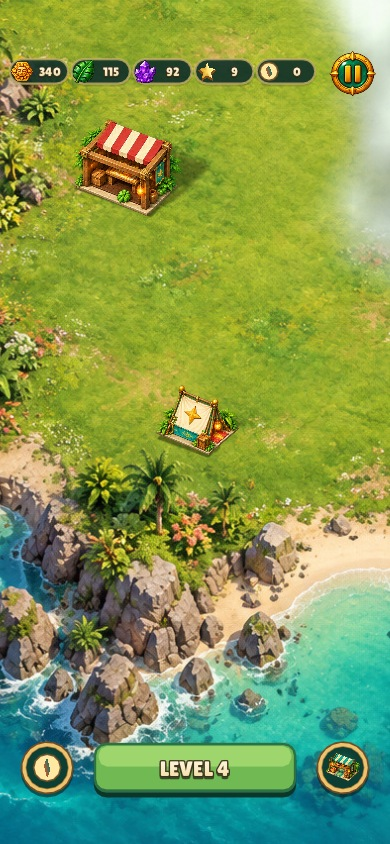
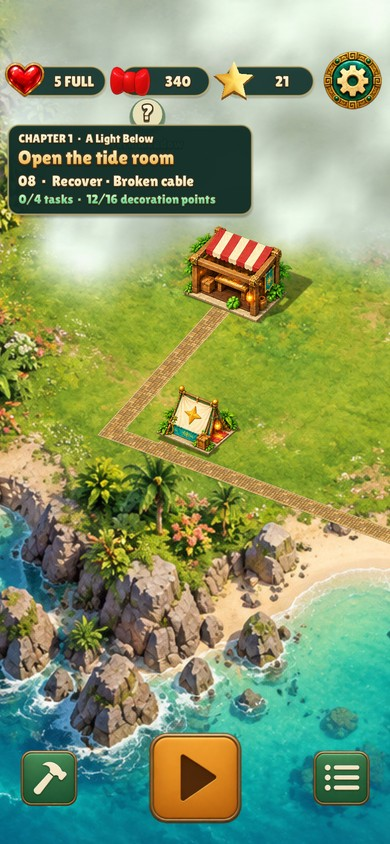
Pave streets in Relic Rush and Nile Archive
Both games load a road atlas rendered by tools/roads.py from their own
palette: warm sandstone setts for Relic Rush, pale limestone for Nile
Archive. The engine lays a flag tile at every building's front and joins
them, replacing the curved connectors both games had switched off.

diff --git a/tools/roads.py b/tools/roads.py
@@ -196,7 +196,7 @@ def main():
     for mask in range(1, 16):
         subprocess.run([str(scener), '--render', str(work / 'roads.blks'), '--camera', f'road{mask}', '--format', 'png',
                         '--transparent', '--supersample', '4', '--output-dir', str(work)], check=True,
-                       stdout=subprocess.DEVNULL)
+                       stdout=subprocess.DEVNULL, stderr=subprocess.DEVNULL)
         shot = max(work.glob('*.png'), key=lambda q: q.stat().st_mtime)
         image = Image.open(shot).convert('RGBA')
         if image.size != (width, height): sys.exit(f'{shot}: {image.size}, expected {(width, height)}')

diff --git a/games/nile-archive/docs/UI_CATALOGUE.md b/games/nile-archive/docs/UI_CATALOGUE.md
@@ -106,10 +106,17 @@ no ImageGen prompt or added runtime texture.
 
 ## Island roads
 
-`archive_island.lua` explicitly disables automatic building connectors with
-a transparent `city.path` (matching the previous default). Paths painted into
-`data/island.png` remain part of the terrain. Reviewed iPad and 16:9 captures
-are in [the road removal comparison](review/no-auto-roads/README.md).
+`archive_island.lua` loads `data/roads.png` as `city.road`: the engine paves a
+flag tile against every building's front and joins the flags along whole tiles
+([Roads](../../../docs/BUILDINGS.md#roads)). The atlas holds fifteen limestone
+pieces, one per combination of joined neighbours, modelled and rendered with
+Scener by `python3 tools/roads.py nile-archive` from the palette in
+`art/roads.json`; it has no interaction states. Paths painted into
+`data/island.png` remain part of the terrain, and a road is drawn on the
+ground, so it passes over painted scenery inside the buildable lawn. The curved
+connectors these replace were removed in
+[the earlier comparison](review/no-auto-roads/README.md). Reviewed capture:
+`screenshots/island.jpg`.
 
 ## Placement alignment guides
 

diff --git a/games/relic-rush/docs/asset-catalogue.md b/games/relic-rush/docs/asset-catalogue.md
@@ -741,3 +741,9 @@ The maker plays queued, approximate source-video stage transitions on the field;
 [durations, uncertainty and review command](../../../docs/HOMESCAPES_ART.md)
 are recorded in the shared inventory. Original particle curves remain open in
 [issue #98](https://github.com/corepunch/nile-archive/issues/98).
+
+## Island streets
+
+| Asset | Source | Runtime | States and use |
+|---|---|---|---|
+| Sandstone streets | `python3 tools/roads.py relic-rush` (Scener model; palette in `art/roads.json`) | `data/roads.png` | Fifteen paved road pieces, one per combination of joined neighbours (4 × 4 atlas, cell = mask): warm sandstone setts with pale kerbs. The engine lays them from every building's front and joins them ([Roads](../../../docs/BUILDINGS.md#roads)); they replace the curved connectors removed in [the earlier review](review/no-auto-roads/README.md). No interaction states. Captures: `screenshots/island-village.jpg` (`--showcase`), `screenshots/phone-island.jpg` (`--city 3`) |
